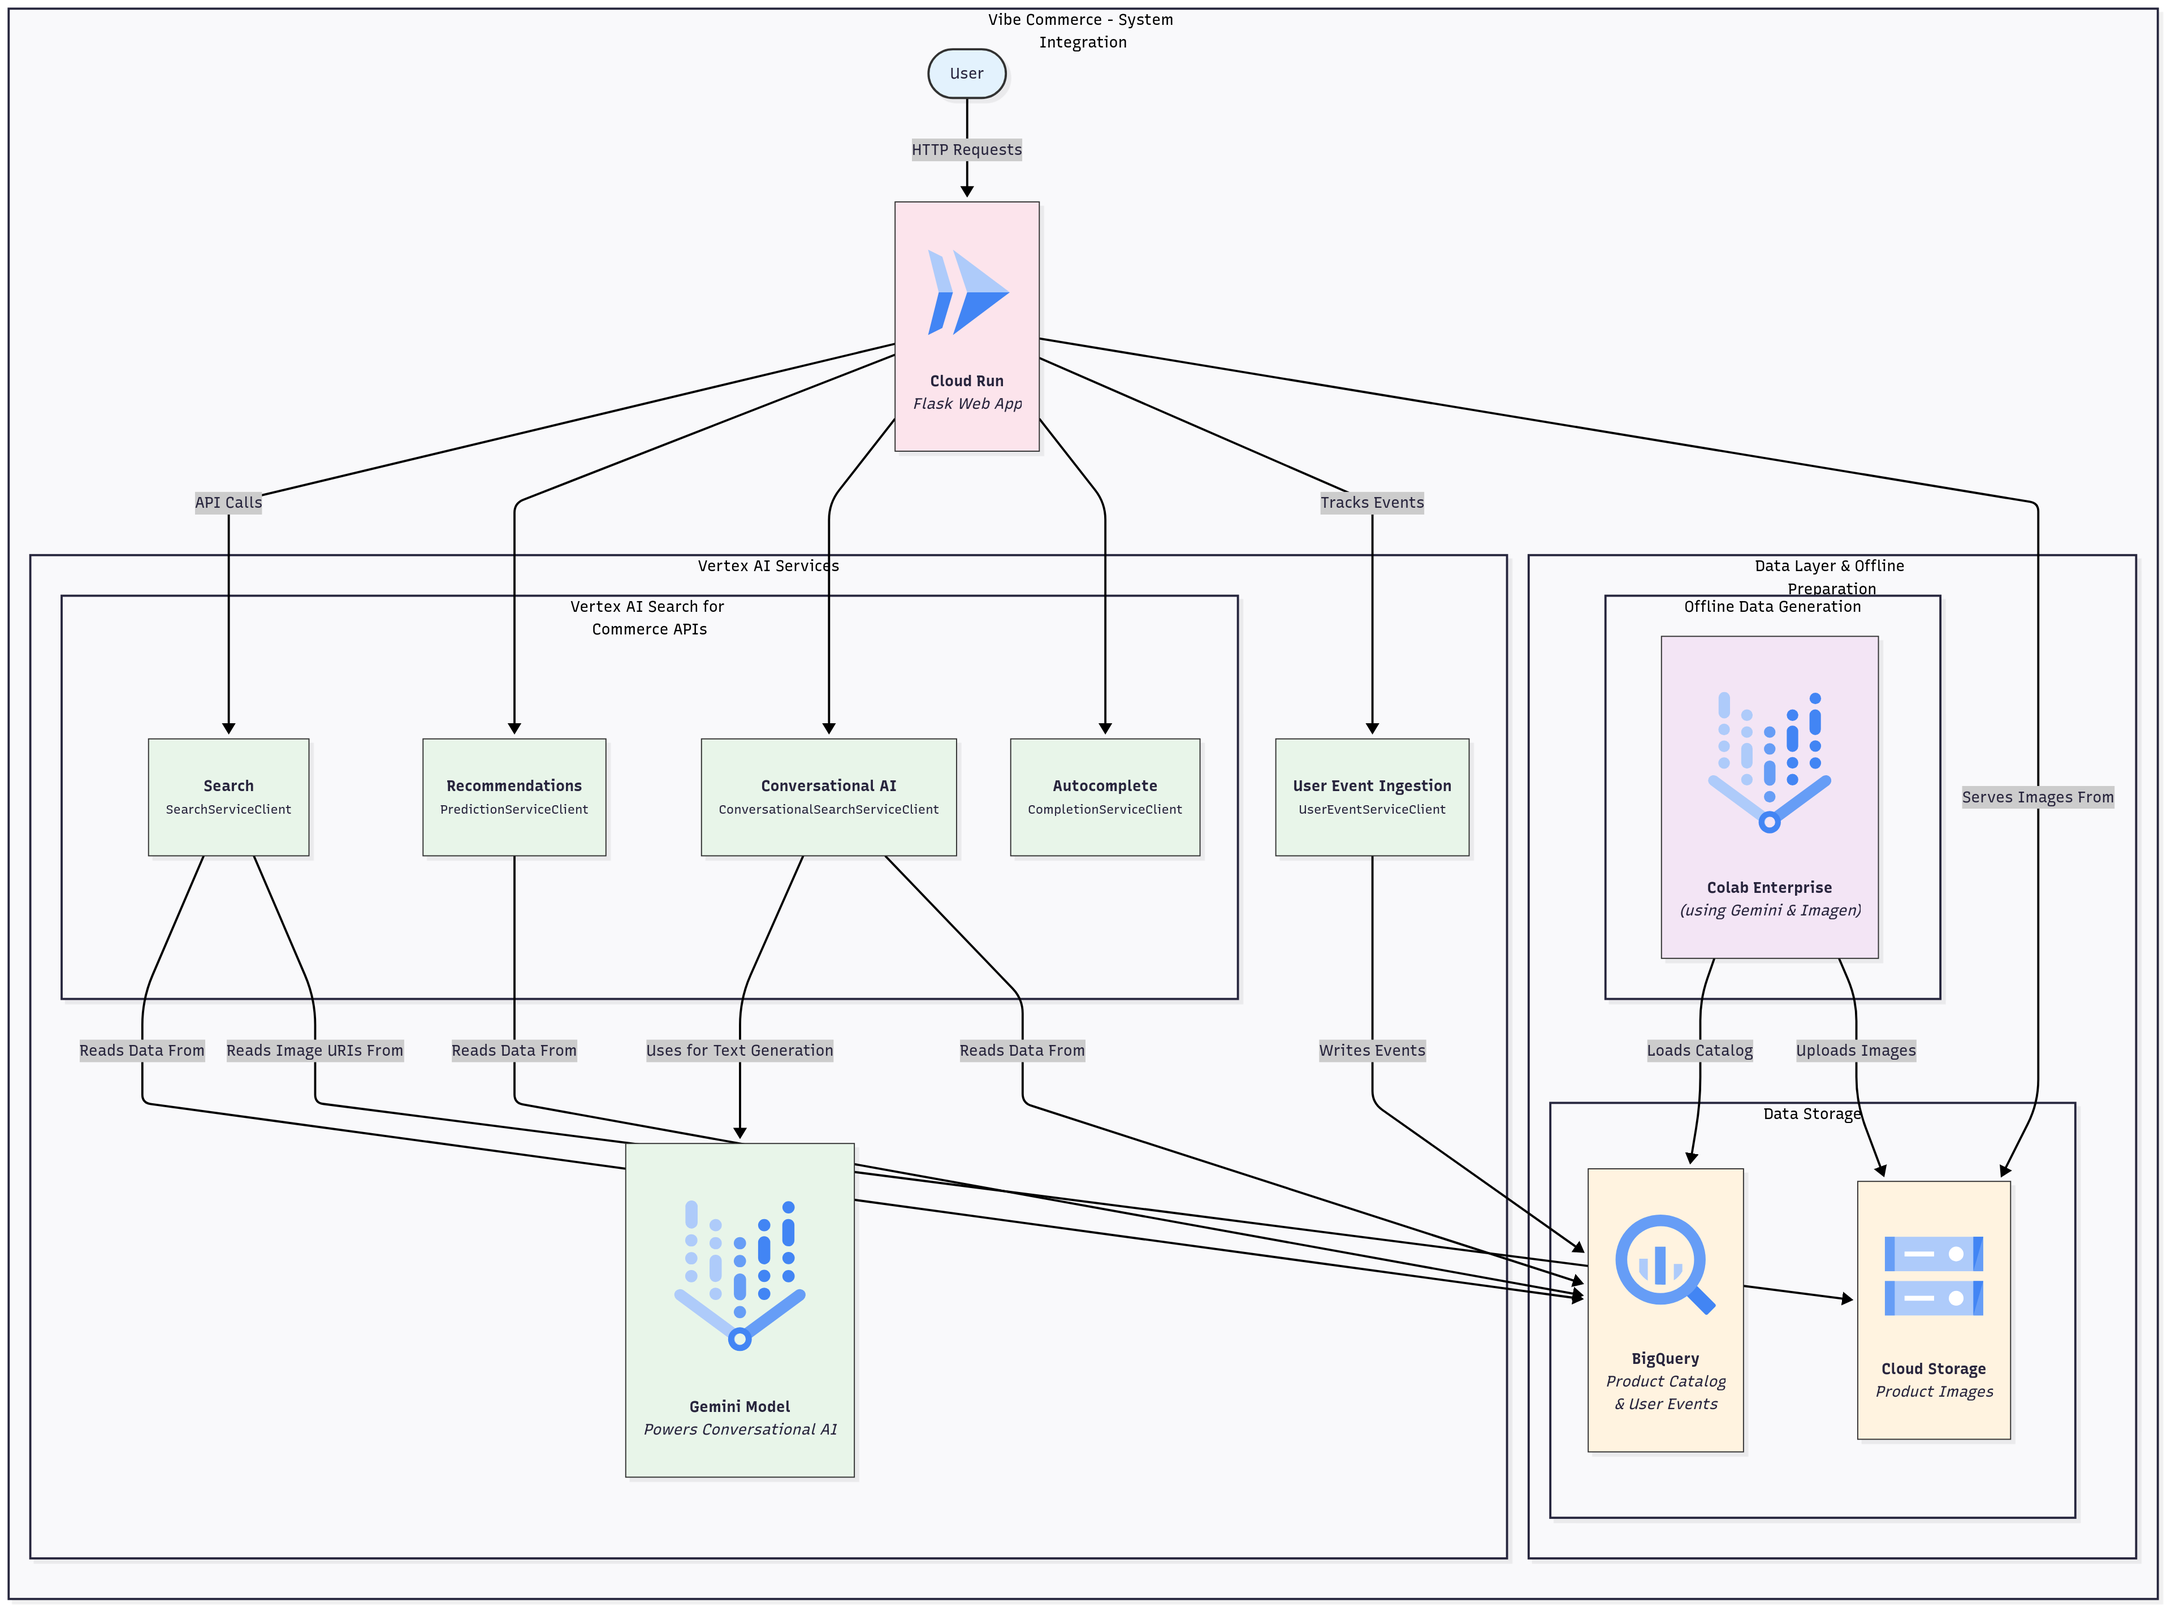
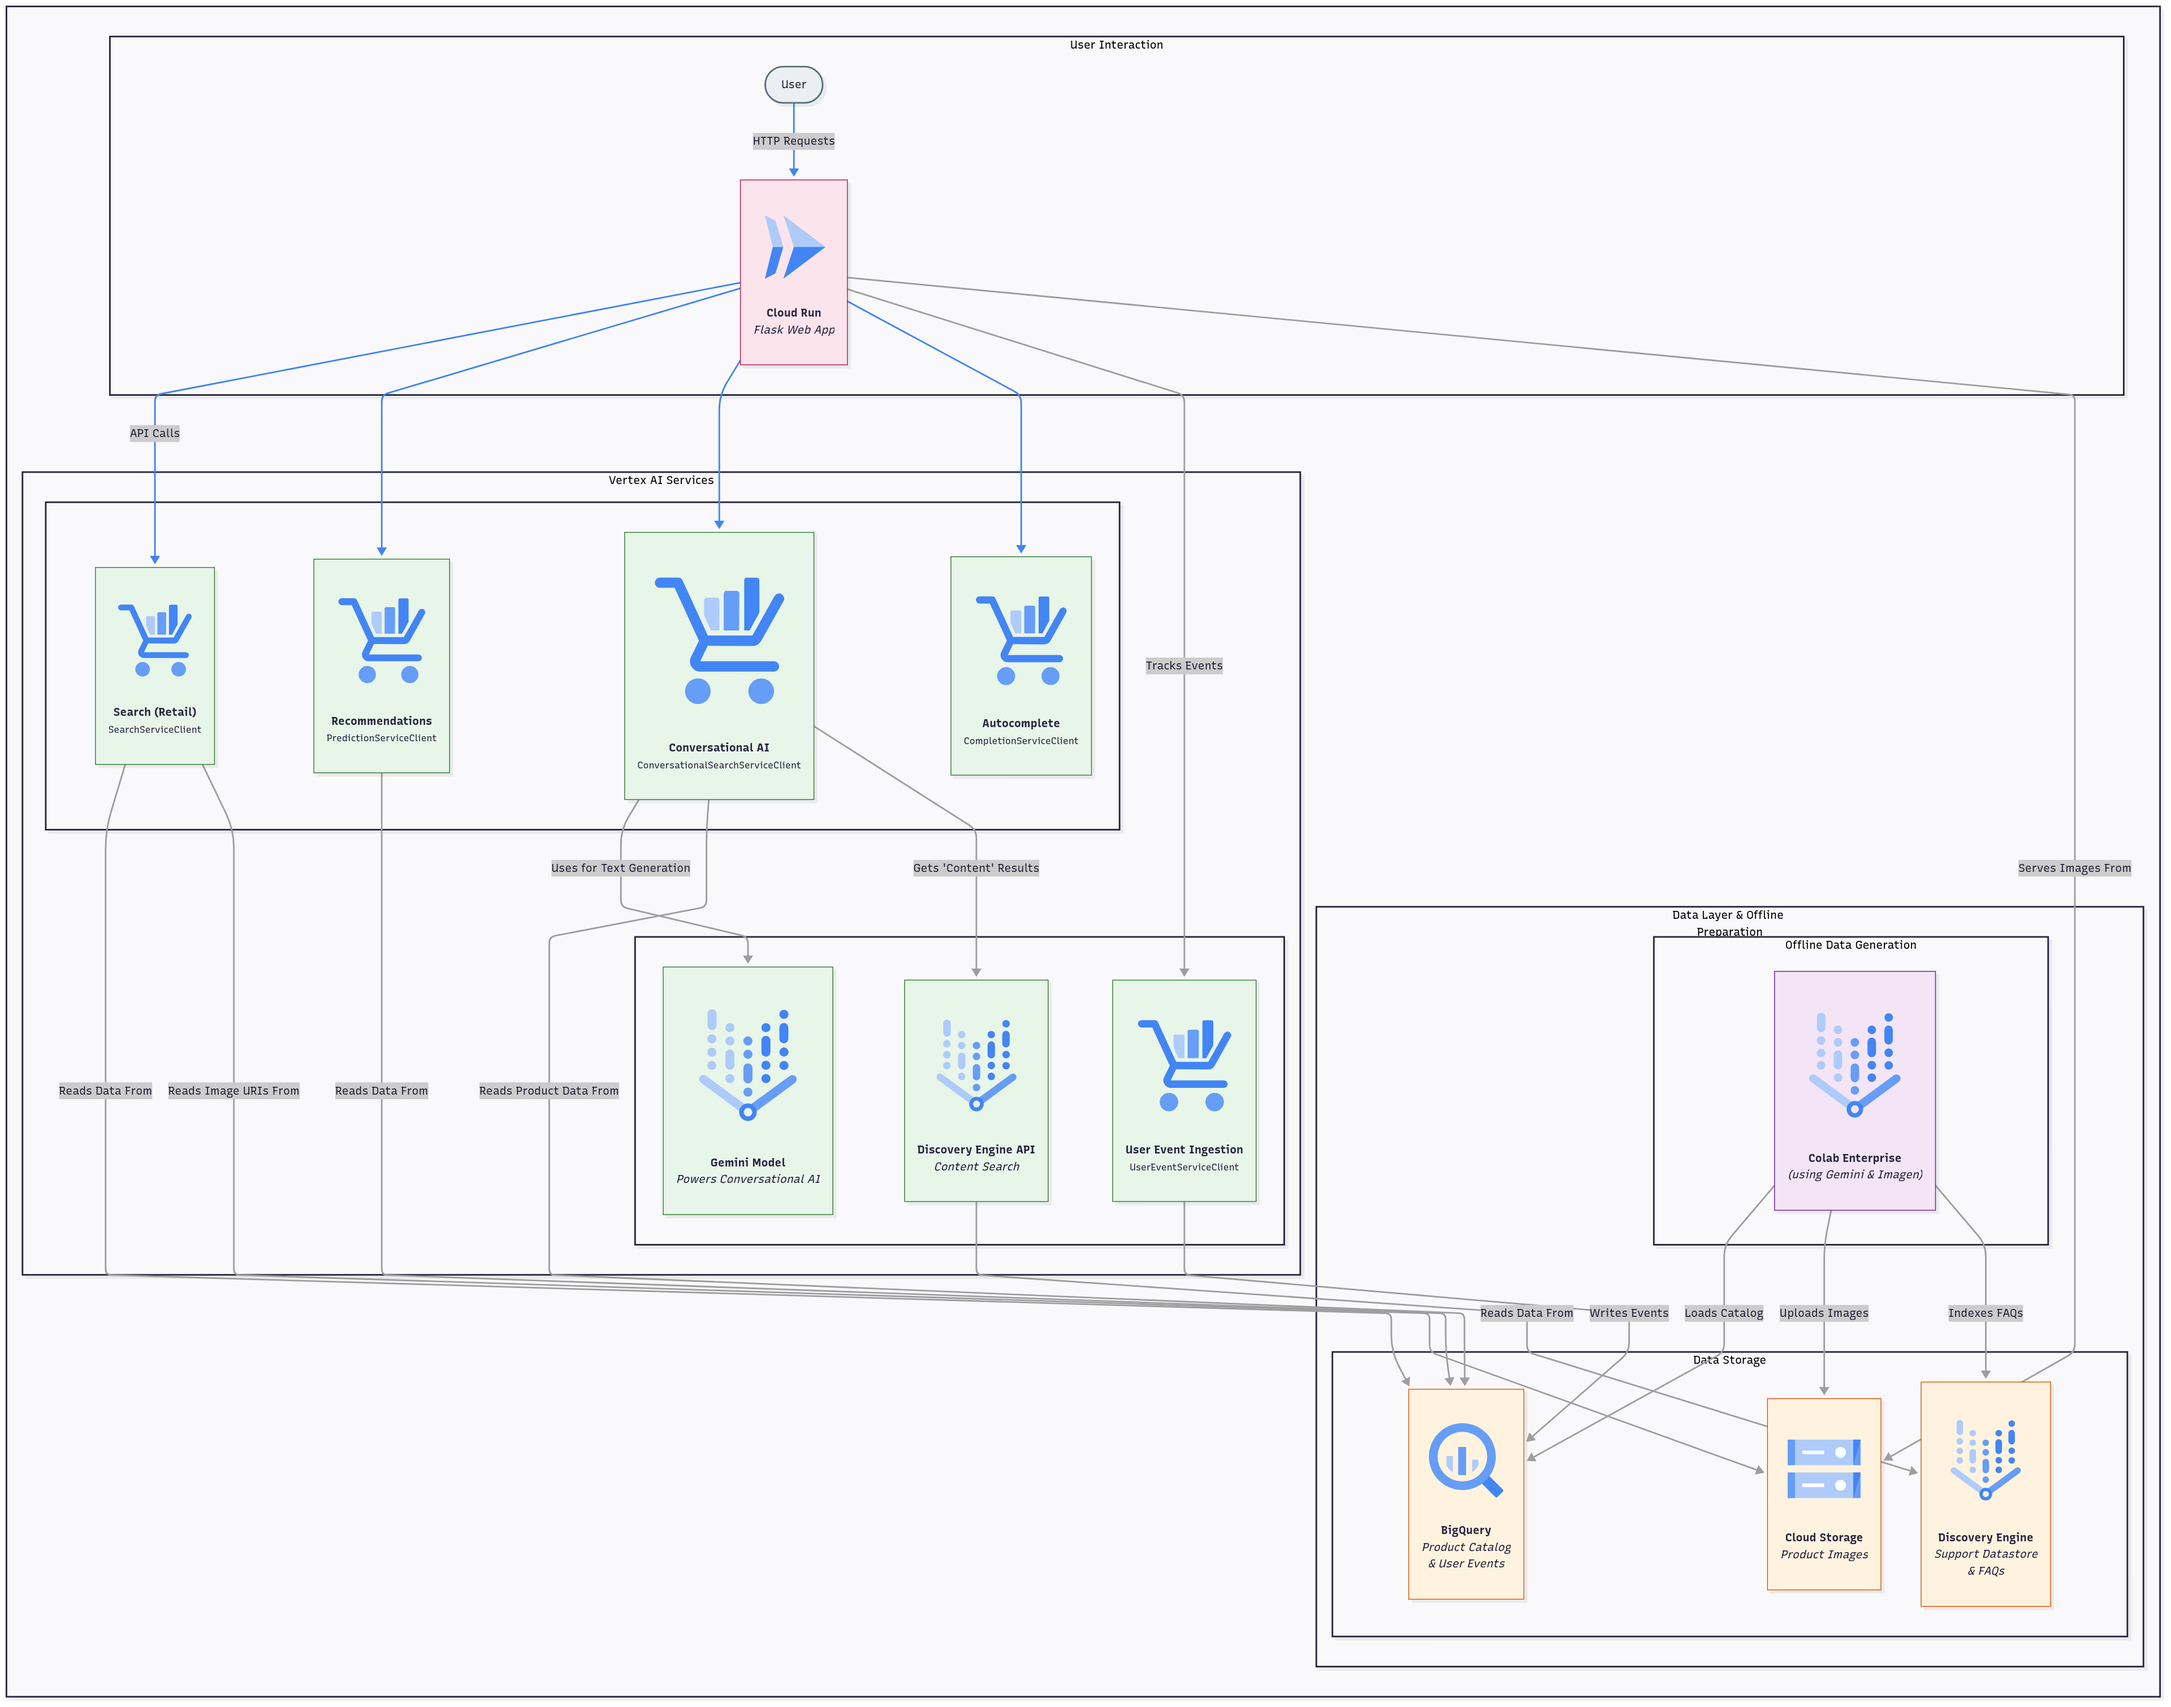
about and readme

diff --git a/templates/about.html b/templates/about.html
@@ -28,7 +28,12 @@
                     <td>The core engine for search, recommendations, and conversational AI.</td>
                 </tr>
                 <tr>
-                    <td class="tech-icon"><svg xmlns="http://www.w3.org/2000/svg" width="24px" height="24px" viewBox="0 0 24 24"><defs><style>.cls-1{fill:#aecbfa;}.cls-1,.cls-2,.cls-3{fill-rule:evenodd;}.cls-2{fill:#669df6;}.cls-3{fill:#4285f4;}</style></defs><title>Icon_24px_BigQuery_Color</title><g data-name="Product Icons"><g ><path class="cls-1" d="M6.73,10.83v2.63A4.91,4.91,0,0,0,8.44,15.2V10.83Z"/><path class="cls-2" d="M9.89,8.41v7.53A7.62,7.62,0,0,0,11,16,8,8,0,0,0,12,16V8.41Z"/><path class="cls-1" d="M13.64,11.86v3.29a5,5,0,0,0,1.7-1.82V11.86Z"/><path class="cls-3" d="M17.74,16.32l-1.42,1.42a.42.42,0,0,0,0,.6l3.54,3.54a.42.42,0,0,0,.59,0l1.43-1.43a.42.42,0,0,0,0-.59l-3.54-3.54a.42.42,0,0,0-.6,0"/><path class="cls-2" d="M11,2a9,9,0,1,0,9,9,9,9,0,0,0-9-9m0,15.69A6.68,6.68,0,1,1,17.69,11,6.68,6.68,0,0,1,11,17.69"/></g></g></svg></td>
+                    <td class="tech-icon"><svg xmlns="http://www.w3.org/2000/svg" width="24px" height="24px" viewBox="0 0 24 24"><defs><style>.cls-1{fill:#669df6;}.cls-2{fill:#4285f4;}.cls-3{fill:#aecbfa;}</style></defs><path class="cls-1" d="M16.1,3.89,12,6.33,7.9,3.89,12,1.45Z"/><path class="cls-2" d="M7.9,3.89,3.8,6.33,7.9,8.77l4.1-2.44Z"/><path class="cls-3" d="M7.9,15.22,3.8,17.66l4.1,2.44,4.1-2.44Z"/><path class="cls-1" d="M12,8.77,7.9,11.21l4.1,2.44,4.1-2.44Z"/><path class="cls-2" d="M16.1,15.22,12,12.78l4.1-2.44,4.1,2.44Z"/><path class="cls-3" d="M16.1,3.89,12,6.33l-4.1-2.44L12,1.45Z"/><path class="cls-1" d="M7.9,3.89,3.8,6.33,7.9,8.77l4.1-2.44Z"/><path class="cls-2" d="M7.9,15.22,3.8,17.66l4.1,2.44,4.1-2.44Z"/><path class="cls-3" d="M12,8.77,7.9,11.21l4.1,2.44,4.1-2.44Z"/><path class="cls-1" d="M16.1,15.22,12,12.78l4.1-2.44,4.1,2.44Z"/></svg></td>
+                    <td><a href="https://cloud.google.com/discovery-engine" target="_blank" rel="noopener noreferrer">Vertex AI Discovery Engine</a></td>
+                    <td>Provides conversational answers to non-product search intents.</td>
+                </tr>
+                <tr>
+                    <td class="tech-icon"><svg xmlns="http://www.w3.org/2000/svg" viewBox="0 0 24 24" width="24px" height="24px"><path d="M20,13.89A.77.77,0,0,0,19,13.73l-7,5.14v.22a.72.72,0,1,1,0,1.43v0a.74.74,0,0,0,.45-.15l7.41-5.47A.76.76,0,0,0,20,13.89Z" style="fill:#669df6"/><path d="M12,20.52a.72.72,0,0,1,0-1.43h0v-.22L5,13.73a.76.76,0,0,0-1,.16.74.74,0,0,0,.16,1l7.41,5.47a.73.73,0,0,0,.44.15v0Z" style="fill:#aecbfa"/><path d="M12,18.34a1.47,1.47,0,1,0,1.47,1.47A1.47,1.47,0,0,0,12,18.34Zm0,2.18a.72.72,0,1,1,.72-.71A.71.71,0,0,1,12,20.52Z" style="fill:#4285f4"/><path d="M6,6.11a.76.76,0,0,1-.75-.75V3.48a.76.76,0,1,1,1.51,0V5.36A.76.76,0,0,1,6,6.11Z" style="fill:#aecbfa"/><circle cx="5.98" cy="12" r="0.76" style="fill:#aecbfa"/><circle cx="5.98" cy="9.79" r="0.76" style="fill:#aecbfa"/><circle cx="5.98" cy="7.57" r="0.76" style="fill:#aecbfa"/><path d="M18,8.31a.76.76,0,0,1-.75-.76V5.67a.75.75,0,1,1,1.5,0V7.55A.75.75,0,0,1,18,8.31Z" style="fill:#4285f4"/><circle cx="18.02" cy="12.01" r="0.76" style="fill:#4285f4"/><circle cx="18.02" cy="9.76" r="0.76" style="fill:#4285f4"/><circle cx="18.02" cy="3.48" r="0.76" style="fill:#4285f4"/><path d="M12,15a.76.76,0,0,1-.75-.75V12.34a.76.76,0,0,1,1.51,0v1.89A.76.76,0,0,1,12,15Z" style="fill:#669df6"/><circle cx="12" cy="16.45" r="0.76" style="fill:#669df6"/><circle cx="12" cy="10.14" r="0.76" style="fill:#669df6"/><circle cx="12" cy="7.92" r="0.76" style="fill:#669df6"/><path d="M15,10.54a.76.76,0,0,1-.75-.75V7.91a.76.76,0,1,1,1.51,0V9.79A.76.76,0,0,1,15,10.54Z" style="fill:#4285f4"/><circle cx="15.01" cy="5.69" r="0.76" style="fill:#4285f4"/><circle cx="15.01" cy="14.19" r="0.76" style="fill:#4285f4"/><circle cx="15.01" cy="11.97" r="0.76" style="fill:#4285f4"/><circle cx="8.99" cy="14.19" r="0.76" style="fill:#aecbfa"/><circle cx="8.99" cy="7.92" r="0.76" style="fill:#aecbfa"/><circle cx="8.99" cy="5.69" r="0.76" style="fill:#aecbfa"/><path d="M9,12.73A.76.76,0,0,1,8.24,12V10.1a.75.75,0,1,1,1.5,0V12A.75.75,0,0,1,9,12.73Z" style="fill:#aecbfa"/></svg></td>
                     <td><a href="https://cloud.google.com/bigquery" target="_blank" rel="noopener noreferrer">BigQuery</a></td>
                     <td>Used for ingesting and storing the product catalog and user event data.</td>
                 </tr>

diff --git a/README.md b/README.md
@@ -23,86 +23,7 @@ This application demonstrates a wide range of features available in Vertex AI Se
 
 ## Architecture
 
-```mermaid
-graph TD
-    subgraph "Vibe Commerce - System Integration"
-        direction TB
-
-        %% --- User & Application Layer ---
-        CloudRun["<img src='https://raw.githubusercontent.com/cloud-jake/vibe-commerce/main/static/icons/cloud-run.svg' width='40' /><br><b>Cloud Run</b><br><i>Flask Web App</i>"]
-        User(["<fa:fa-user> User"])
-
-        %% --- AI Services Layer ---
-        subgraph "Vertex AI Services"
-            direction TB
-            subgraph "Vertex AI Search for Commerce APIs"
-                direction LR
-                SearchAPI["<b>Search</b><br><small>SearchServiceClient</small>"]
-                RecsAPI["<b>Recommendations</b><br><small>PredictionServiceClient</small>"]
-                ConvoAPI["<b>Conversational AI</b><br><small>ConversationalSearchServiceClient</small>"]
-                AutocompleteAPI["<b>Autocomplete</b><br><small>CompletionServiceClient</small>"]
-            end
-            UserEventService["<b>User Event Ingestion</b><br><small>UserEventServiceClient</small>"]
-            Gemini["<img src='https://raw.githubusercontent.com/cloud-jake/vibe-commerce/main/static/icons/gemini.svg' width='40' /><br><b>Gemini Model</b><br><i>Powers Conversational AI</i>"]
-        end
-
-        %% --- Data & Offline Layer ---
-        subgraph "Data Layer & Offline Preparation"
-            direction TB
-            subgraph "Data Storage"
-                direction LR
-                BigQuery["<img src='https://raw.githubusercontent.com/cloud-jake/vibe-commerce/main/static/icons/bigquery.svg' width='40' /><br><b>BigQuery</b><br><i>Product Catalog<br>& User Events</i>"]
-                GCS["<img src='https://raw.githubusercontent.com/cloud-jake/vibe-commerce/main/static/icons/cloud-storage.svg' width='40' /><br><b>Cloud Storage</b><br><i>Product Images</i>"]
-                SupportDataStore["<img src='https://raw.githubusercontent.com/cloud-jake/vibe-commerce/main/static/icons/discovery-engine.svg' width='40' /><br><b>Discovery Engine</b><br><i>Support Datastore<br>& FAQs</i>"]
-            end
-            subgraph "Offline Data Generation"
-                Colab["<img src='https://raw.githubusercontent.com/cloud-jake/vibe-commerce/main/static/icons/colab-enterprise.svg' width='40' /><br><b>Colab Enterprise</b><br><i>(using Gemini & Imagen)</i>"]
-            end
-        end
-
-        %% --- Connections ---
-        
-        %% User Flow
-        User -- "HTTP Requests" --> CloudRun
-
-        %% Application to AI Services
-        CloudRun -- "API Calls" --> SearchAPI
-        CloudRun --> RecsAPI
-        CloudRun --> ConvoAPI
-        CloudRun --> AutocompleteAPI
-        CloudRun -- "Tracks Events" --> UserEventService
-        
-        %% AI Model Integration
-        ConvoAPI -- "Uses for Text Generation" --> Gemini
-
-        %% Data Layer Connections
-        UserEventService -- "Writes Events" --> BigQuery
-        SearchAPI -- "Reads Data From" --> BigQuery
-        RecsAPI -- "Reads Data From" --> BigQuery
-        ConvoAPI -- "Reads Product Data From" --> BigQuery
-        ConvoAPI -- "Reads Support Data From" --> SupportDataStore
-        SearchAPI -- "Reads Image URIs From" --> GCS
-        CloudRun -- "Serves Images From" --> GCS
-        
-        %% Offline Prep Flow
-        Colab -- "Loads Catalog" --> BigQuery
-        Colab -- "Uploads Images" --> GCS
-        Colab -- "Indexes FAQs" --> SupportDataStore
-    end
-
-    %% Styling
-    classDef serviceNode fill:#e8f5e9,stroke:#333,stroke-width:1px,padding:10px,border-radius:5px
-    classDef dataNode fill:#fff3e0,stroke:#333,stroke-width:1px,padding:10px,border-radius:5px
-    classDef appNode fill:#fce4ec,stroke:#333,stroke-width:1px,padding:10px,border-radius:5px
-    classDef prepNode fill:#f3e5f5,stroke:#333,stroke-width:1px,padding:10px,border-radius:5px
-    classDef userNode fill:#e3f2fd,stroke:#333,stroke-width:2px,border-radius:50%
-
-    class User userNode;
-    class CloudRun appNode;
-    class SearchAPI,RecsAPI,ConvoAPI,AutocompleteAPI,UserEventService,Gemini serviceNode;
-    class BigQuery,GCS,SupportDataStore dataNode;
-    class Colab prepNode;
-```
+![Vibe Commerce System Architecture Diagram](https://raw.githubusercontent.com/cloud-jake/vibe-commerce/main/static/vibe-commerce-arch.png)
 
 ## Prerequisites
 
